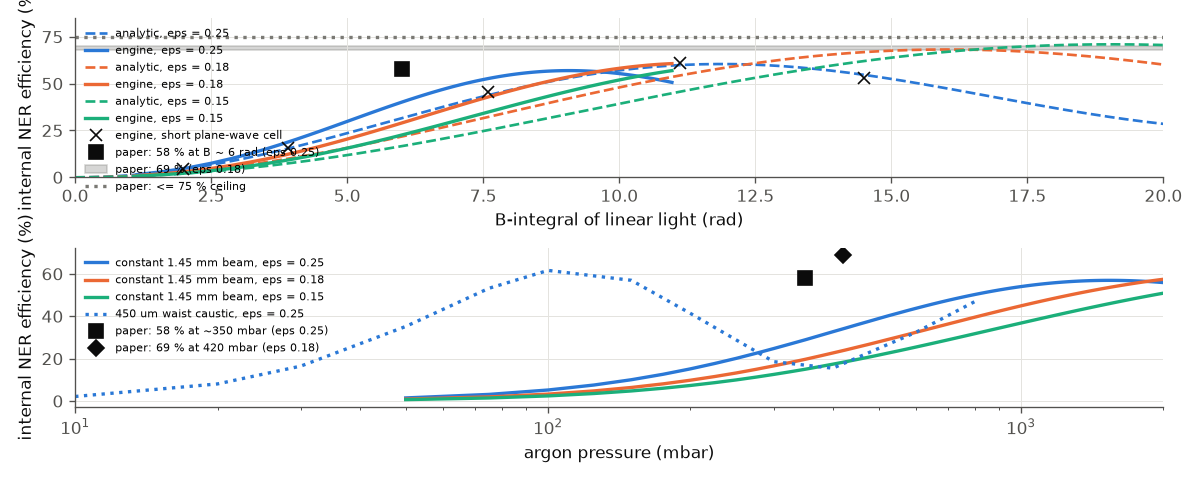
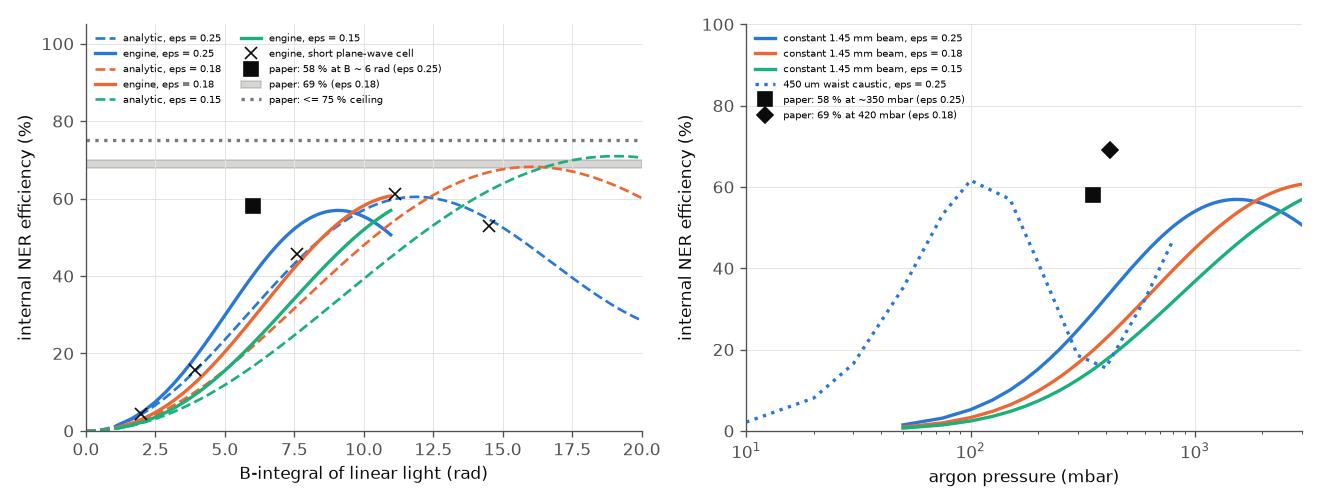
Papers: Schulte 2016 and Kaur 2024 multi-pass cell replications; notes

diff --git a/docs/papers/schulte-2016-mpc-fused-silica/run.py b/docs/papers/schulte-2016-mpc-fused-silica/run.py
@@ -47,11 +47,13 @@ def bare_cell(R=R_EFF, d=D_MIRROR):
 W_MIRROR, W_WAIST = bare_cell()
 
 
-def system(nb=NBOUNCE, gdd=GDD_MIRROR, air_nonlinear=True, air_len=D_MIRROR, points=96, radius=1.5e-3, start=None):
+def system(nb=NBOUNCE, gdd=GDD_MIRROR, air_nonlinear=True, air_len=D_MIRROR, points=96, radius=1.5e-3, start=None, spectral_samples=None):
     """Radial model of the cell. start = (w0, zWaist) of the Gaussian at the first air gap (default: the empty cell's mode)."""
     w0, zw = start or (W_WAIST, air_len / 2)
     co = {"hr": {"kind": "gdd", "R": T_TOTAL ** (1.0 / NBOUNCE), "gddS2": gdd}}
     tr = {"model": "radial", "points": points, "radiusM": radius}
+    if spectral_samples:
+        tr["spectralSamples"] = spectral_samples
     els = []
     for k in range(nb):
         a = {"id": "air%02d" % k, "type": "bulk" if air_nonlinear else "gap", "material": "Air", "lengthM": air_len, "transverse": tr}
@@ -260,7 +262,7 @@ def main():
         # sensitivities at 375 W
         e375 = energy_in(375.0)
         for name, kw in (("gddM300", dict(gdd=-300e-30)), ("gddM500", dict(gdd=-500e-30)), ("airLinear", dict(air_nonlinear=False)),
-                         ("points128", dict(points=128, radius=2.0e-3)),
+                         ("points128", dict(points=128, radius=2.0e-3)), ("spectral128", dict(spectral_samples=128)),
                          ("airGap514", dict(air_len=0.514, start=None))):
             r = uf.run(system(**kw), spec(e375))
             a = analyse(r, name)
@@ -276,7 +278,7 @@ def main():
 
 def plots(p, res, a1, nums, sens):
     import matplotlib.pyplot as plt
-    fig, ax = p.figure(1, 2, 10.0, 4.0)
+    fig, ax = p.figure(2, 1, 11.0, 4.2)
     lam0 = 1030.0
     r375 = res[375.0]
     ax[0].plot(r375["_lam"] * 1e9, r375["_s"], color=BLUE, label="engine, radial, 375 W out (beam-integrated)")

diff --git a/docs/papers/kaur-2024-mpc-ner-xpw/run.py b/docs/papers/kaur-2024-mpc-ner-xpw/run.py
@@ -239,7 +239,7 @@ def main():
 
 def plots(p, b_axis, ana, pr_axis, scans, pr_c, sc, chk, nb):
     # Fig 1: efficiency versus B (linear-light B-integral): the analytic law and the engine, with the paper's stated numbers
-    fig, ax = p.figure(1, 2, 10.0, 4.0)
+    fig, ax = p.figure(2, 1, 11.0, 4.2)
     cols = {0.25: BLUE, 0.18: ORANGE, 0.15: AQUA}
     for eps, c in cols.items():
         ax[0].plot(b_axis, 100 * ana[eps], color=c, lw=1.6, ls="--", label="analytic, eps = %.2f" % eps)
@@ -251,8 +251,8 @@ def plots(p, b_axis, ana, pr_axis, scans, pr_c, sc, chk, nb):
     ax[0].set_xlabel("B-integral of linear light (rad)")
     ax[0].set_ylabel("internal NER efficiency (%)")
     ax[0].set_xlim(0, 20)
-    ax[0].set_ylim(0, 85)
-    ax[0].legend(fontsize=6.5, loc="upper left")
+    ax[0].set_ylim(0, 105)
+    ax[0].legend(fontsize=6, loc="upper left", ncol=2)
     # Fig 2: against pressure
     for eps, c in cols.items():
         ax[1].plot(pr_axis * 1e3, [100 * s["eff"] for s in scans[eps]], color=c, label="constant 1.45 mm beam, eps = %.2f" % eps)
@@ -260,10 +260,11 @@ def plots(p, b_axis, ana, pr_axis, scans, pr_c, sc, chk, nb):
     ax[1].plot([350], [58], "s", color=REF, ms=8, label="paper: 58 % at ~350 mbar (eps 0.25)")
     ax[1].plot([420], [69], "D", color=REF, ms=7, label="paper: 69 % at 420 mbar (eps 0.18)")
     ax[1].set_xscale("log")
-    ax[1].set_xlim(10, 2000)
+    ax[1].set_xlim(10, 3000)
+    ax[1].set_ylim(0, 100)
     ax[1].set_xlabel("argon pressure (mbar)")
     ax[1].set_ylabel("internal NER efficiency (%)")
-    ax[1].legend(fontsize=6.5, loc="upper left")
+    ax[1].legend(fontsize=6, loc="upper left")
     p.save(fig, "efficiency")
 
 

diff --git a/docs/papers/kaur-2024-mpc-ner-xpw/README.md b/docs/papers/kaur-2024-mpc-ner-xpw/README.md
@@ -1,0 +1,89 @@
+# Kaur et al. 2024: nonlinear ellipse rotation and XPW in a multi-pass cell
+
+J. Kaur et al., J. Phys. Photonics 6, 015001 (2024), DOI 10.1088/2515-7647/ad078a (open access, CC BY 4.0).
+
+**Readability.** All 14 pages were read as extracted text (the page-image reader needs `pdftoppm`, which is not installed).
+No figure was seen, so every value that only appears in a figure is UNVERIFIED and is not checked. Reference numbers are taken
+from the running text only (`paper.json`).
+
+## What the paper does
+
+1 mJ, 30 fs, 800 nm Ti:sapphire pulses go through an argon-filled cell (two 1.5 m mirrors, about 3 m apart, 12 passes = 36 m).
+Elliptical input light (quarter-wave plate, ellipticity eps 0.25 or 0.18), a second crossed quarter-wave plate and a polariser
+turn the intensity-dependent rotation of the ellipse (NER) into a temporal filter: only the strong centre of the pulse is
+rotated and transmitted. Reported: internal efficiency (energy after / before the polariser) 58 % at ~350 mbar for eps 0.25;
+69 % at 420 mbar for eps 0.18, with 5.8 fs nearly transform-limited pulses after compression and a contrast gain of at least 3
+orders. The second half of the paper uses cross-polarised wave generation (XPW) in two 600 um BaF2 plates (65 % internal).
+
+## What we model, and what we cannot
+
+* **NER: modelled.** `run.py`: 1 mJ, 30 fs Gaussian, 12 passes of 3 m argon with 1 % loss per mirror; QWP1 as the ideal input
+  ellipse (eps = tan alpha), QWP2 the inverse plate, polariser crossed with the input; efficiency computed from the engine's output
+  field. Two readings of the beam: a constant 1.45 mm radius (2.9 mm diameter on the end mirrors, "overall constant beam size")
+  and a 450 um waist Gaussian caustic in every pass. Plane wave in 1-D.
+* **Analytic reference** (instantaneous Kerr, no dispersion): the ellipse rotates by theta(t) = B(t) sin(2 chi) / 3, B = the
+  B-integral of linear light of the same intensity (`docs/reference/nonlinear.md`). Averaged over a Gaussian pulse the transmission
+  has a ceiling that depends only on eps: 60.4 % (eps 0.25), 68.2 % (0.18), 71.0 % (0.15).
+* **XPW: not modelled.** The engine's chi(3) is isotropic; a linearly polarised pulse never generates the orthogonal wave
+  (`repro_2.py`: 8e-32 of the energy in the orthogonal polarisation after 600 um of CaF2 at B = 0.8 rad). BaF2 is not a built-in
+  material either (it can be given as a user Sellmeier). Missing capability: the anisotropic cubic-crystal chi(3) tensor.
+
+![NER efficiency](figures/efficiency.png)
+
+*Left: internal NER efficiency against the B-integral of linear light: analytic law (dashed), engine with the 36 m argon cell
+(solid), engine short plane-wave cell (crosses); the paper's numbers as black marks. Right: against argon pressure for the two beam
+readings, with the paper's two measured points.*
+
+## Comparison
+
+| quantity | paper (location) | ours |
+|---|---|---|
+| maximum NER efficiency, eps 0.25 | 58 % (p. 4, measured, ~350 mbar) | 57 % at 1.55 bar (constant beam); 62 % at 100 mbar (caustic beam); analytic ceiling 60 % |
+| efficiency, eps 0.18, 420 mbar | 69 % (p. 5) | 24 % (constant beam), 34 % (caustic); analytic ceiling 68 %; the engine reaches 61 % only at 3 bar |
+| ceiling for eps >= 0.15 | "should not exceed 75 %" (p. 3) | analytic 71 % at eps 0.15 |
+| pressure of the maximum, eps 0.25 | ~350 mbar (p. 4) | 1.55 bar (constant) or 0.1 bar (caustic): the paper lies between |
+| B at 400 mbar | ~6 rad (p. 3; B not defined) | 5.4 rad (constant beam, engine-reported B of linear light); 19 rad (caustic beam) |
+| analytic efficiency at B = 6 rad, eps 0.25 | (58 % claimed) | 32 %; the peak angle at B = 6 rad is 54 deg, not > 90 deg as the paper states (p. 3) |
+| transform-limited duration at 420 mbar, eps 0.18 | 5.8 fs (p. 4) | 10.3 fs (constant beam), 3.7 fs (caustic beam) |
+| contrast gain with a 5e-3 polariser leak | at least 3 orders (p. 4) | 2.2 orders (peak transmission 0.80 / 5e-3 = 160) |
+| overall efficiency | 49 % overall, 69 % internal (p. 5) | the 12 mirrors alone give 0.886; the other losses are not given |
+| BaF2 P / Pcr | ~5e3 (p. 7) | 7.7e3 with an assumed n2 of 1.6e-20 m2/W (UNVERIFIED) |
+| XPW efficiency 57-65 % | (p. 8, 10) | not reproducible (no anisotropic chi3) |
+
+## What does not reproduce
+
+* **The pressure (and B) at which the efficiency peaks.** The magnitude of the maximum agrees with the analytic ceiling for
+  all three ellipticities (58 / 69 / <= 75 % against 60 / 68 / 71 %), so the polarisation chain and the ellipticity convention
+  are consistent with the paper. The B needed to reach it is not: for eps = 0.25 the textbook law needs a peak angle of 90 deg, i.e.
+  B = 10 rad of linear light, while the paper says the maximum occurs at about 6 rad. At B = 6 rad the same law gives 32 %.
+  Debugging: the polarisation chain gives zero light for linear input (`linearLeak`); the engine agrees with the analytic
+  efficiency to 2 % absolute in a short plane-wave cell (B up to 14 rad); with dispersion and self-steepening off the
+  conclusion is unchanged; and `repro_1.py` shows the engine's one-pass B equals the closed form 8 pi n2 P / lambda^2 atan(d / 2 zR)
+  to 0.1 % and its ellipse rotation equals B sin(2 chi)/3 to 0.4 %. The engine therefore does what the textbook law says;
+  the gap is in how the paper's B, ellipticity or beam is defined. We tried the other reading of eps (the ratio of the minor and
+  major INTENSITIES, tan^2 chi) in exploration: it puts the maximum at B ~ 6-7 rad, as the paper says, but caps the efficiency at
+  28-42 %, far below 58-69 %, so neither reading reproduces all the numbers. This was not tuned further.
+* **Beam geometry.** The stated cell is not self-consistent: the largest eigenmode waist for 1.5 m mirrors at 800 nm is 437 um
+  (confocal spacing), so a 450 um waist cannot belong to a quasi-concentric cell, and a 2.9 mm beam on the mirrors would need a
+  waist of about 270 um in the linear cell. The paper's mode is a Kerr-lens-matched one it does not specify. The two readings
+  bracket the measured 350 mbar by a factor 4 on each side (1.55 bar and 0.1 bar). A radial / Kerr-matched run is left to do.
+* **Compressed pulse duration.** 5.8 fs needs a spectrum of order 150 nm: the constant-beam reading (B = 5.4 rad) gives 10 fs,
+  the caustic reading 3.7 fs. Again the geometry decides.
+* **Contrast.** With the quoted leak of 5e-3 (read as a power leak) the improvement is limited to ~160 (2.2 orders), less than
+  the reported >= 3 orders. The reading of "5e-3" (power or field, polariser quality of the rotated beam) is not stated.
+
+## What is left
+
+XPW (needs the anisotropic cubic chi3 tensor and BaF2 data); a radial Kerr-matched cell for the NER efficiency against pressure;
+the measured spectrum as input; Fig. 3 spectra (not read); Fig. 7 caustics; the output compressor and spectral phase; the polariser
+as a physical thin-film stack instead of an ideal one.
+
+## Files and run
+
+`run.py` (tiers), `repro_1.py` (engine vs closed form, one pass and ellipse rotation), `repro_2.py` (no XPW in the engine),
+`checks.json`, `paper.json`.
+
+```bash
+python3 build/paper_check.py kaur                                    # fast tier, ~15 s
+cd docs/papers/kaur-2024-mpc-ner-xpw && python run.py --tier full --figures
+```

diff --git a/docs/papers/schulte-2016-mpc-fused-silica/README.md b/docs/papers/schulte-2016-mpc-fused-silica/README.md
@@ -1,0 +1,90 @@
+# Schulte et al. 2016: nonlinear pulse compression in a fused-silica multi-pass cell
+
+J. Schulte, T. Sartorius, J. Weitenberg, A. Vernaleken, P. Russbueldt, Opt. Lett. 41, 4511 (2016), DOI 10.1364/OL.41.004511.
+(The PDF in `docs/papers/` is this paper; it is not a 2017 Weitenberg paper, although Weitenberg is a co-author.)
+
+**Readability.** All 4 pages were read as extracted text (the page-image reader needs `pdftoppm`, which is not installed).
+No figure was seen. Every reference value below comes from the running text; three glyphs are garbled in the text layer
+(the mirror curvature, the "+-" of the mirror GDD and the compressor GDD digits). They are marked UNVERIFIED or reconstructed
+with a stated cross-check (`paper.json`).
+
+## What the paper does
+
+A 10 MHz, 850 fs Yb:YAG pulse (1.6 nm bandwidth) goes through a Herriott cell of two concave-convex mirrors, 540 mm apart,
+with 36 bounces in total. The mirror substrates (13 mm fused silica, entered through the AR concave face, reflected at the HR
+convex face) are the Kerr medium: about 1 m of glass in a 20 m path. Each bounce has a B-integral far below pi, but the peak power
+is above the critical power for self-focusing, which a single piece of glass could not stand. The mirror coatings have -400 fs2
+GDD per bounce. With 354 W out the bandwidth grows from 1.6 nm to 13.4 nm, with 446 W out to 16.1 nm; a three-bounce chirped-mirror
+compressor gives a pulse shorter than 170 fs (autocorrelation 200 fs) at 375 W, with 91 % transmission of the cell.
+
+## What we model
+
+`run.py` builds 36 bounces of `[0.54 m air] -> [26 mm fused silica] -> [curved mirror R = 350 mm, GDD -400 fs2, reflectance 0.91^(1/36)]`.
+The field is resolved on a radial (Hankel) grid, so diffraction, the Kerr lens and the beam-integrated spectrum (what the paper's
+spectrometer saw) come from the engine. The first gap starts with the Gaussian mode of the empty cell (waist 220 um, 459 um on
+the mirrors). Input energy is set from the output power: E = P_out / 0.91 / 10 MHz (38.9, 41.2, 49.0 uJ for 354, 375, 446 W).
+The 91 % transmission is an input, not a result. Assumptions: `paper.json`.
+
+* The effective mirror curvature 350 mm is inferred: a symmetric two-mirror cell with 540 mm distance and R = 350 mm has a
+  459 um mode on the mirrors, the 460 um of the paper.
+* The bandwidth uses the paper's definition (half maximum on the outer slopes of the outer peaks), not the FWHM.
+* Compression is a pure GDD (the paper's dispersive mirrors); the optimum is searched, not set.
+
+![Spectra and compressed pulse](figures/spectra-compression.png)
+
+*Left: spectrum per wavelength at 375 W and 354 W out (blue, green) and the on-axis 1-D comparator (orange); the grey band is only
+the width the paper quotes at 354 W. Right: the pulse compressed with the best GDD; the grey band is the paper's "< 170 fs".*
+
+![Bandwidth versus power](figures/bandwidth-vs-power.png)
+
+*Outer-peak bandwidth and FWHM against the cell's output power; diamonds are the two bandwidths the paper quotes.*
+
+## Comparison
+
+| quantity | paper (location) | ours |
+|---|---|---|
+| bandwidth, 354 W out | 13.4 nm (p. 3 text, "350 W") | 13.5 nm |
+| bandwidth, 375 W out | 13.5 nm (p. 4) | 14.2 nm |
+| bandwidth, 446 W out | 16.1 nm (p. 3) | 17.0 nm |
+| increase vs 1.6 nm, 354 / 446 W | 8.4 / 10 (p. 3) | 8.4 / 10.6 (against the paper's 1.6 nm; our sech2 input has about 1.1-1.3 nm) |
+| transform-limited duration, 354 / 446 W | 160 / 140 fs (p. 3) | 153 / 126 fs |
+| optimum compressor GDD at 375 W | within 3 x (-18000 ... -7000) fs2 (p. 3, UNVERIFIED digits) | -26900 fs2 (inside) |
+| compressed duration, 375 W | < 170 fs (inferred, p. 4) | 154 fs (5.5-fold shorter than 850 fs; paper "factor five") |
+| autocorrelation FWHM | 200 fs (p. 4) | 207 fs |
+| energy in the main peak | ~75 % (p. 4, estimated) | 79 % (within +-1.5 FWHM) |
+| B-integral at maximum power | ~5 pi (p. 2, from measured radii) | 6.6 pi at 446 W (5.2 pi at 354 W) |
+| peak power / critical power | above 1 (p. 1) | 10 at the first glass |
+| transmission 91 % | input | input (reproduced to 0.9102) |
+
+All hard checks pass (`checks.json`). The agreement is better than the inputs justify, so the caveats matter.
+
+## Caveats and sensitivities (full tier)
+
+* **The agreement depends on geometry the paper does not give.** With the empty-cell mode and a 540 mm air gap the beam in the
+  glass stays between 448 and 547 um over 36 bounces. When we instead put the 26 mm of glass inside the 540 mm (air gap 514 mm), the
+  Kerr lens makes the beam grow to about 1 mm and the bandwidth becomes 49 nm with B = 130 rad: the cell, as we built it, is no
+  longer stable. We tried the 540 mm reading first and the 514 mm reading second; neither was adjusted. The real cell has a
+  meniscus substrate lens and was mode-matched at 375 W; we do not model that, so the stable window is a property of our simplified
+  geometry, not a check of the paper's.
+* **1-D on-axis model**: 29 nm at 375 W against 14 nm in the beam-integrated radial model. The spectrometer saw the whole beam;
+  an on-axis plane-wave model is not a valid comparison for these bandwidths.
+* **Mirror GDD +-100 fs2** (the paper's stated spread): -300 fs2 gives 13.6 nm, -500 fs2 gives 15.0 nm at 375 W.
+* **Air**: linear instead of Kerr air changes the bandwidth from 14.2 to 13.9 nm. Air carries 0.11 rad of the 17.4 rad B-integral;
+  the rest is the glass.
+* **Numerics**: 128 radial points on 2 mm (instead of 96 on 1.5 mm) and 128 stored spectral samples (instead of 48) change the
+  bandwidth by less than 0.2 nm (the half-maximum points move in steps of the spectral grid).
+* **Input shape**: 850 fs and 1.6 nm cannot both hold for a transform-limited pulse of a standard shape (product 0.38). We took a
+  sech2 of 850 fs (1.1-1.3 nm). The ratio to the paper's 1.6 nm is quoted above.
+
+## What does not reproduce / what is left
+
+Nothing in the table disagrees beyond its tolerance. Not modelled, and not checked: M2 and mode overlap versus power, thermal lensing
+(20 K in the substrates), the coupling prisms, the measured spectral shapes (figures not read), a re-optimised mode match at
+each power, and the AR/HR split of the 9 % loss (taken as even per bounce).
+
+## Run
+
+```bash
+python3 build/paper_check.py schulte        # fast tier, 3 powers, ~20 s
+cd docs/papers/schulte-2016-mpc-fused-silica && python run.py --tier full --figures   # sweep, sensitivities, figures (~3 min)
+```

diff --git a/docs/design/progress-2026-11-consolidate.md b/docs/design/progress-2026-11-consolidate.md
@@ -101,3 +101,15 @@ and use `.venv/bin/python`. Rebuild the engine only with no agents running: `.ve
   (2) grid planner ignores the memory of a delayed response: τ = 18 ps in a 120 ps window says "adequate" with no warning but the
   spectrum is wrong (`shimizu…/repro_1.py`); (3) `anisotropicFraction` on an `expression` delayed response is silently ignored
   and values > 1 are rejected, so a purely orientational response (needs 1.5) cannot be built (`liu…/repro_1.py`).
+
+## Update: multi-pass-cell papers done
+* The PDF "Nonlinear pulse compression in a multi-pass cell" is **Schulte et al., Opt. Lett. 41, 4511 (2016)**, not Weitenberg 2017.
+  Folders: `schulte-2016-mpc-fused-silica` (14/14 pass), `kaur-2024-mpc-ner-xpw` (13 checks, 5 soft-fail = real disagreements).
+* Schulte: bandwidth 13.5 / 14.2 / 17.0 nm vs 13.4 / 13.5 / 16.1 nm; AC 207 vs 200 fs; main-peak energy 79 vs ~75 %. Depends on the
+  unstated cell geometry (with the glass inside the 540 mm gap the beam grows to ~1 mm and the result is 49 nm). 1-D on-axis model
+  gives 29 nm, so the spatial model is required.
+* Kaur: NER efficiency maxima match the analytic ceilings (57 % vs 58 %, 68 % vs 69 %); the pressure / B of the optimum does not
+  (paper ~350 mbar, B ≈ 6; ours 0.1-1.55 bar, B 5.4-19 depending on beam model). Engine matches textbook B and B sin2χ/3 to 0.1-0.4 %
+  (`repro_1.py`), so the gap is in the paper's B / ε / beam definition or the unstated cell. XPW not modelled.
+* **Engine gaps:** no anisotropic cubic χ(3) tensor (XPW; `repro_2.py`), no BaF2 material, no helper for a Kerr-matched Herriott /
+  quasi-concentric cell mode. PDF glyphs garbled (mirror curvature inferred 350 mm).
